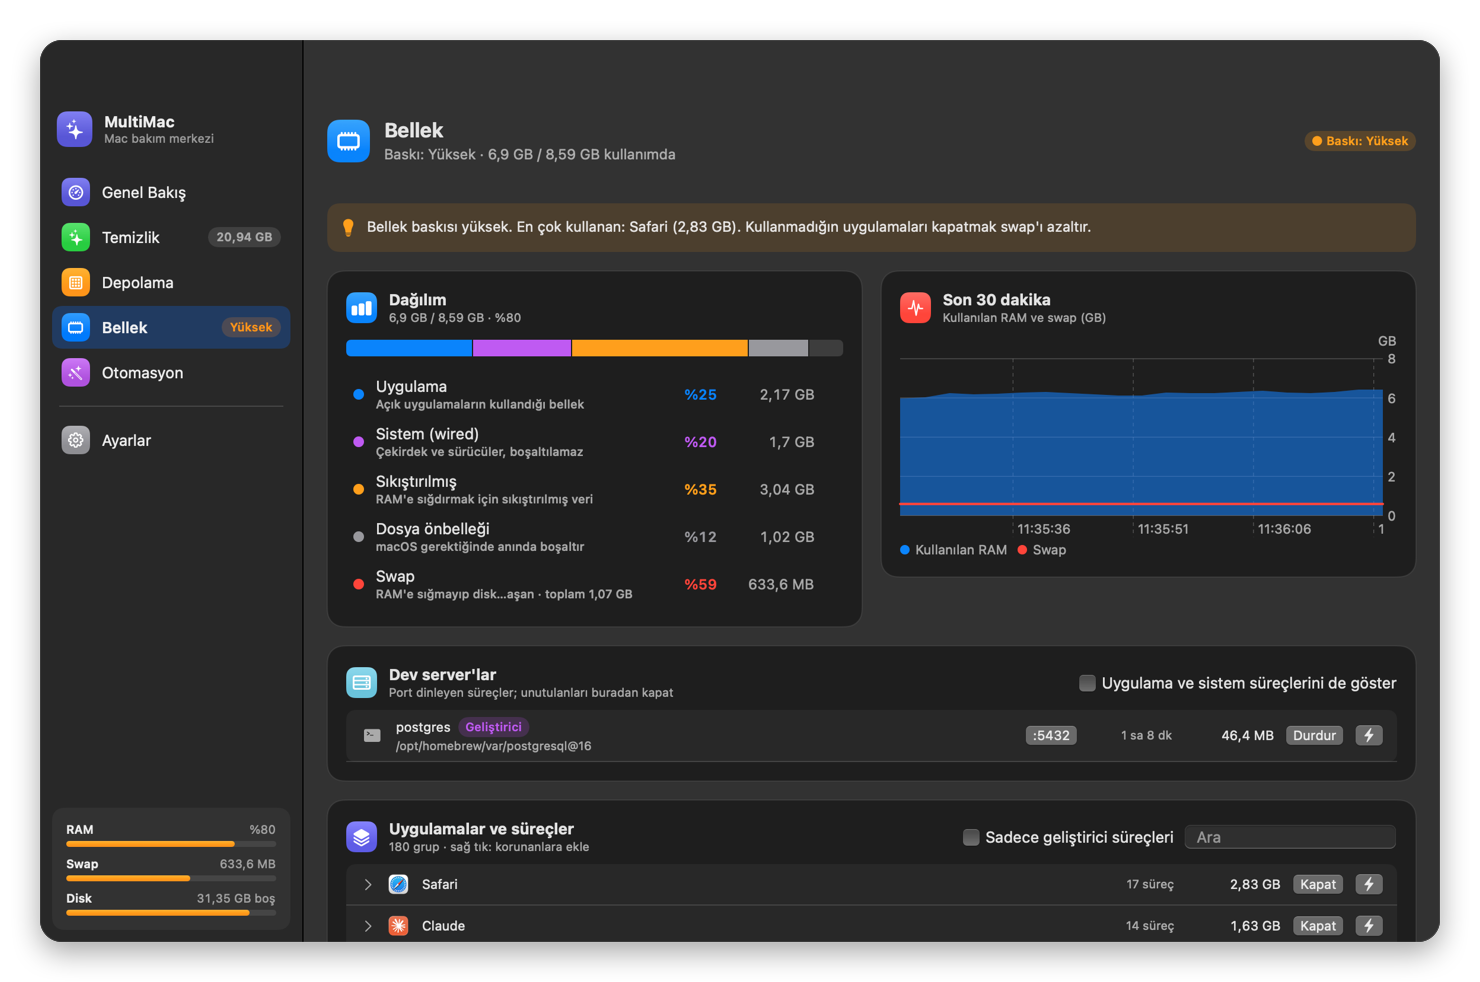
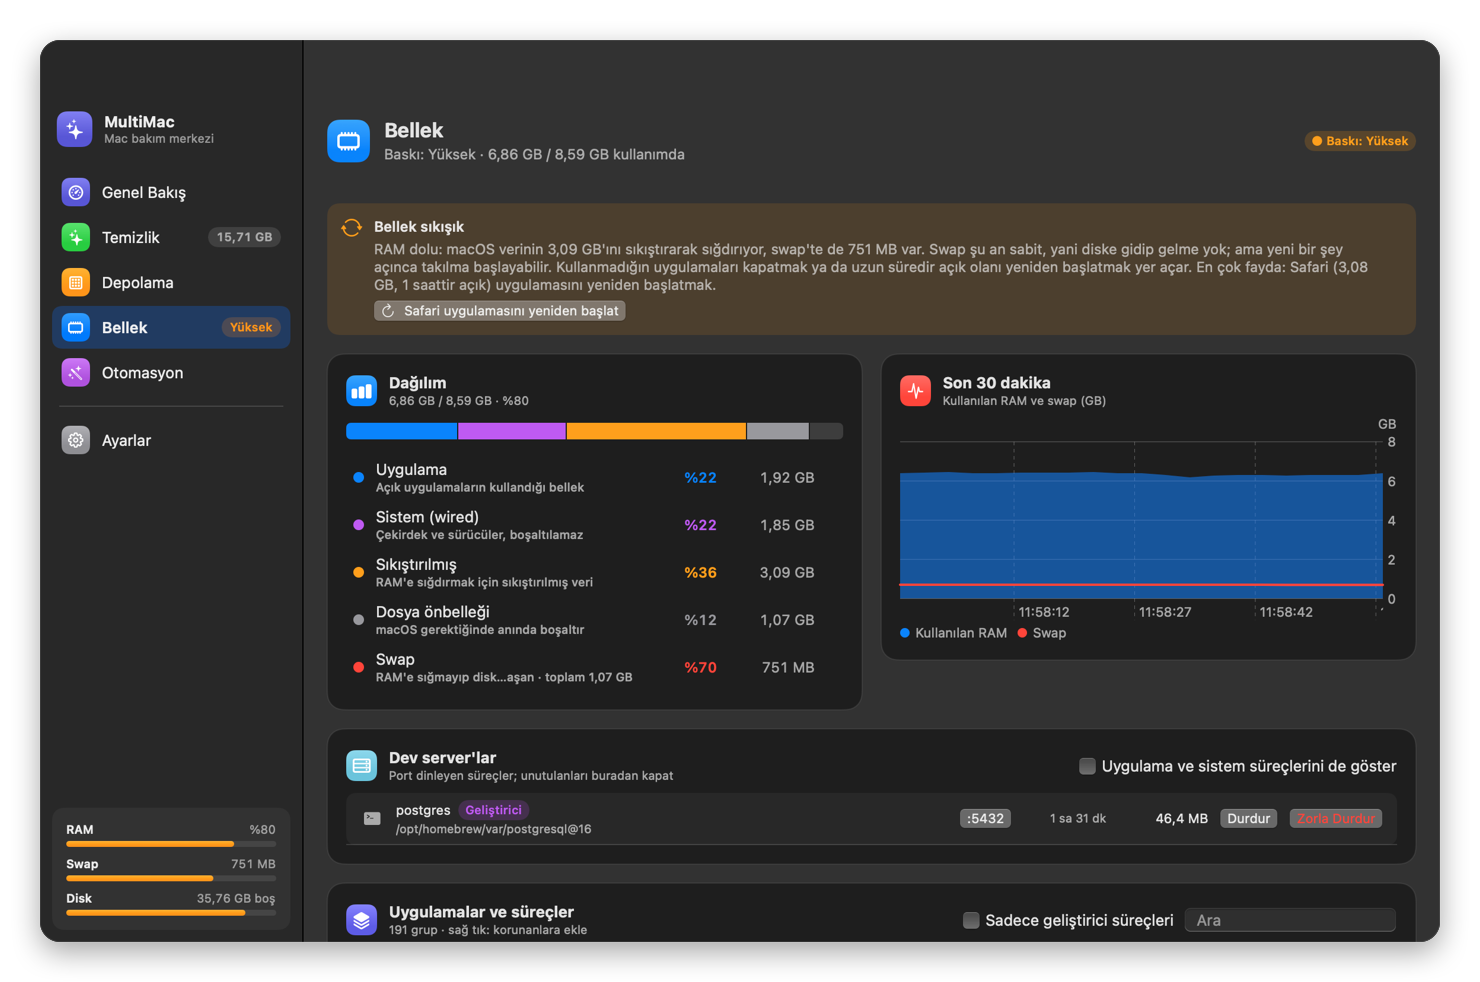
Document restart, swap insight and labeled memory buttons (#1)
Brings the README up to date with the memory features added in e223799.

## Changes
- **Features table:** swap insight and the restart button are listed
under Memory manager.
- **Memory section:**
- a table of the three insight cards (churning / squeezed / calm) and
when each one appears
- a table of every action button (Yeniden Başlat, Kapat, Zorla Kapat,
Sonlandır, Durdur / Zorla Durdur) and what it does
- **Menu bar section:** mentions the compact insight card with one-click
restart.
- **New section "Can swap be moved back into RAM?":** why it can't be
forced, and why restarting the owning app is the practical fix.
- **Usage table:** the new Memory buttons.
- **Screenshots:** Memory and menu bar screenshots refreshed so they
show the insight card and the labeled buttons.

Both `README.md` and `README.tr.md` are updated with the same content.

diff --git a/README.tr.md b/README.tr.md
@@ -68,7 +68,7 @@ MultiMac bunun tersi: alanın ve belleğin tam olarak nereye gittiğini göstere
 | 📊 **Genel Bakış** | Nedenleriyle sağlık özeti, büyük RAM / swap / disk göstergeleri, *disk nereye gidiyor?* (Kütüphane, Uygulamalar, Projeler, geliştirici araçları, İndirilenler…), kategori ve kipe göre temizlenebilir alan, bellek dağılımı, en büyük projeler ve çalışan dev server'lar. **Her yüzde tıklanabilir** ve doğru ekranı, filtrelenmiş olarak açar. |
 | 🧹 **Detaylı temizlik** | Uygulama önbellekleri, geliştirici önbellekleri, proje build kalıntıları, Xcode, günlükler, İndirilenler, büyük ve eski dosyalar, Çöp Kutusu. *Güvenli / Dengeli / Agresif* kipleri, proje görünümü, arama, boyut ve yaş filtreleri, sıralama, alt klasörleri tek tek seçme, kalıcı silme veya Çöp Kutusuna taşıma. |
 | 🗺 **Depolama haritası** | Tüm diskin, ev klasörünün veya herhangi bir klasörün SpaceSniffer tarzı iç içe treemap'i. Renkli güvenlik işaretleri (sistem / dikkat / silinebilir / senin) ve korunan bir şeyi silmeden önce güçlü uyarı. *Sistem Verisi*ni açıklar. |
-| 🧠 **Bellek yöneticisi** | Yardımcı süreçleriyle gruplanmış uygulamalar, 30 dakikalık RAM ve swap grafiği, kapat / zorla kapat, korunan uygulamalar, swap yüzdesi, kritik baskı ve sınırı aşan uygulamalar için uyarılar. |
+| 🧠 **Bellek yöneticisi** | Yardımcı süreçleriyle gruplanmış uygulamalar, 30 dakikalık RAM ve swap grafiği, korunan uygulamalar, swap yüzdesi, kritik baskı ve sınırı aşan uygulamalar için uyarılar. Sade dilli **swap yorumu** swap'in gerçekten sorun olup olmadığını ve belleği geri almak için uzun süredir açık hangi uygulamayı **yeniden başlatman** gerektiğini söyler. Her tuşun üzerinde ne yaptığı yazar: *Yeniden Başlat*, *Kapat*, *Zorla Kapat*. |
 | 🛰 **Dev server bulucu** | TCP portu dinleyen her süreç; proje klasörü, port (`localhost`'u açar), çalışma süresi ve bellekle. Üç gün önce unuttuğun `npm run dev`'i bul. |
 | 🤖 **Otomasyon** | Tek tek açılıp kapatılabilen sekiz önbellek kuralı, zamanlama, disk azalınca tetikleme, *ne silinir?* önizlemesi ve bellek sıkıştığında senin seçtiğin uygulamaları kapatan isteğe bağlı RAM rahatlatma. |
 | 🛡 **Asla dokunma listesi** | Bir öğeye veya projenin tamamına sağ tıklayıp kalıcı olarak hariç tut. Her tarama, kip, otomasyon ve silme motorunun kendisi buna uyar. |
@@ -84,7 +84,8 @@ MultiMac bunun tersi: alanın ve belleğin tam olarak nereye gittiğini göstere
 
 Bellek baskısı yükselince menü çubuğundaki ikon uyarı simgesine dönüşür. Panelde RAM / swap / disk (her kutu ilgili
 ekranı açar), son çalışmanın sonucuyla **Hızlı Temizlik**, sade bir bellek önerisi ve RAM payıyla birlikte en çok
-bellek kullanan uygulamalar var. Satırın üzerine gelince uygulamayı kapatabilir, tıklayınca ayrıntısını açabilirsin.
+bellek kullanan uygulamalar var. Swap çalkantılıysa veya bellek sıkışıksa, en çok yer açacak uygulamayı tek tıkla
+yeniden başlatan küçük bir yorum kartı çıkar. Satırın üzerine gelince uygulamayı kapatabilir, tıklayınca ayrıntısını açabilirsin.
 
 ### Genel Bakış
 
@@ -118,8 +119,26 @@ işlemlerini ve klasörün içeriğini gösterir.
 ### Bellek
 
 <p align="center">
-  <img src="docs/images/memory.png" width="820" alt="Bellek ekranı: dağılım, 30 dakikalık grafik, dev server'lar ve uygulama listesi">
+  <img src="docs/images/memory.png" width="820" alt="Bellek ekranı: yeniden başlat tuşlu swap yorumu, dağılım, 30 dakikalık grafik, dev server'lar ve uygulama listesi">
 </p>
+
+En üstteki kart durumu sade bir dille yorumlar:
+
+| Kart | Ne zaman | Ne önerir |
+| --- | --- | --- |
+| **Swap çalkantılı** | Son 5 dakikada swap'e ~0,75 GB'tan fazla veri girip çıktı | Şimdi bir şey kapat veya yeniden başlat; Mac'i takılatan budur |
+| **Bellek sıkışık** | Bellek baskısı normal değil | 3 saatten uzun süredir açık en büyük uygulamayı yeniden başlat |
+| **Swap durgun** | Swap kullanılıyor ama hareket etmiyor | Hiçbir şey; diskte bekleyen boşta sayfalar Mac'i yavaşlatmaz |
+
+Her tuş ne yaptığını söyler, geri alınamayanlar kırmızıdır:
+
+| Tuş | Nerede | Ne yapar |
+| --- | --- | --- |
+| **Yeniden Başlat** | Uygulamalar | Uygulamayı düzgünce kapatır, çıkmasını bekler, arka planda yeniden açar. Belleği sıfırdan başlar, swap'teki sayfaları atılır |
+| **Kapat** | Uygulamalar | ⌘Q gibi uygulamadan kapanmasını ister; kaydedilmemiş belgeler için yine sorabilir |
+| **Zorla Kapat** | Uygulamalar | Uygulamayı ve yardımcılarını anında öldürür (onay ister; kaydedilmemiş iş kaybolur) |
+| **Sonlandır** | Tek bir yardımcı süreç | Yalnızca o süreci sonlandırır |
+| **Durdur** / **Zorla Durdur** | Dev server'lar | Sunucuyu `SIGTERM` ile durdurur / `SIGKILL` ile öldürür |
 
 ### Otomasyon
 
@@ -160,11 +179,22 @@ Gerçekten bellek açmanın tek güvenli yolu kullanmadığın uygulamaları kap
 istersen otomatikleştirir:
 
 - **Gör:** baskı, swap, 30 dakikalık grafik ve tüm yardımcı süreçleriyle gruplanmış uygulamalar.
-- **Müdahale et:** menü çubuğundan veya Bellek sekmesinden kapat / zorla kapat; unutulan dev server'ları durdur.
+- **Müdahale et:** menü çubuğundan veya Bellek sekmesinden yeniden başlat, kapat / zorla kapat; unutulan dev server'ları durdur.
 - **RAM rahatlatma (varsayılan kapalı):** bellek baskısı (veya swap) *N* dakika yüksek kalırsa, *senin* listene
   eklediğin ve en az *M* dakikadır arka planda olan uygulamaları düzgünce kapatır. Uygulamalar kaydedilmemiş belgeler
   için yine sorabilir; öndeki uygulama ve korunan uygulamalar asla kapatılmaz; her işlem kaydedilir ve bildirim
   gönderebilir.
+
+### Swap tekrar RAM'e alınabilir mi?
+
+Bir uygulamadan alınamaz, güvenli bir yolu da yok. macOS swap'e atılmış belleği ancak sahibi olan süreç ona tekrar
+dokunduğunda RAM'e geri getirir; bunu zorlayan herkese açık bir API yok. Pager'ı kapatmak ya da sayfalamayı tetiklemek için
+bellek doldurmak gibi hileler root ister ve durumu kötüleştirir. Hareketsiz duran swap disk alanı dışında hiçbir şeye
+mal olmaz.
+
+İşe yarayan: **swap'in sahibi olan uygulamayı yeniden başlatmak.** Swap'teki sayfaları atılır ve uygulama daha küçük,
+taze bir bellekle geri gelir. Swap yorum kartı en iyi adayı (3 saatten uzun süredir açık en büyük uygulama) gösterir,
+**Yeniden Başlat** bunu tek tıkla yapar. macOS'u yeniden başlatmak swap'i tamamen temizler.
 
 ## Güvenlik modeli
 
@@ -228,7 +258,7 @@ xattr -dr com.apple.quarantine /Applications/MultiMac.app
 | Genel Bakış | Herhangi bir yüzdeye tıkla; o öğe depolama haritasında veya temizlik listesinde açılır |
 | Temizlik | Bir kip seç veya öğeleri işaretle, sonra **Temizle**. Sağ tık › *Asla dokunma* |
 | Depolama | *Tüm Disk / Ev Klasörü / Klasör…* seç, tara, bloklara çift tıklayarak içine gir |
-| Bellek | Uygulamaya sağ tık › korunanlara ekle. *Durdur* bir dev server'ı kapatır |
+| Bellek | *Yeniden Başlat* uygulamayı yeniden başlatır, *Kapat* kapatır, *Zorla Kapat* zorla kapatır. Uygulamaya sağ tık › korunanlara ekle. *Durdur* bir dev server'ı kapatır |
 | Otomasyon | Kuralları aç/kapat, zamanlamayı ayarla, **Şimdi ne silinir?** önizler, **Şimdi çalıştır** uygular |
 | Ayarlar | Proje klasörleri, kullanılmayan proje eşiği, büyük/eski dosya eşikleri, uyarılar, korunan uygulamalar, menü çubuğu görünümü, girişte başlatma |
 

diff --git a/README.md b/README.md
@@ -70,7 +70,7 @@ system files**, and stays out of the way in the menu bar.
 | 📊 **Overview** | Health summary with reasons, big RAM / swap / disk gauges, *where is the disk going?* (Library, Applications, Projects, dev tools, Downloads…), cleanable space per category and preset, memory breakdown, biggest projects and running dev servers. **Every percentage is clickable** and opens the right screen, filtered. |
 | 🧹 **Detailed cleanup** | App caches, developer caches, project build leftovers, Xcode, logs, downloads, large & old files, Trash. *Safe / Balanced / Aggressive* presets, per-project view, search, size & age filters, sorting, expand an item to pick sub-folders, delete permanently or move to Trash. |
 | 🗺 **Storage map** | SpaceSniffer-style nested treemap of the whole disk, your home or any folder. Color-coded safety (system / caution / safe / yours) and a strong warning before deleting anything protected. Explains *System Data*. |
-| 🧠 **Memory manager** | Apps grouped with their helper processes, 30-minute RAM & swap chart, quit / force quit, protected apps, alerts for swap %, critical pressure and apps above a limit. |
+| 🧠 **Memory manager** | Apps grouped with their helper processes, 30-minute RAM & swap chart, protected apps, alerts for swap %, critical pressure and apps above a limit. A plain-language **swap insight** tells you whether swap is actually hurting and which long-running app to **restart** to get memory back. Every action button is labeled: *Yeniden Başlat* (restart), *Kapat* (quit), *Zorla Kapat* (force quit). |
 | 🛰 **Dev server finder** | Every process listening on a TCP port with project folder, port (opens `localhost`), uptime and memory — find the `npm run dev` you forgot three days ago. |
 | 🤖 **Automation** | Eight cache rules you can toggle one by one, a schedule, low-disk trigger, *what would be deleted?* preview, and optional RAM relief that closes the apps you chose when memory stays tight. |
 | 🛡 **Never touch list** | Right-click any item or whole project to exclude it forever. Respected by every scan, preset, the automation and the deletion engine itself. |
@@ -86,7 +86,8 @@ system files**, and stays out of the way in the menu bar.
 
 The menu bar icon turns into a warning when memory pressure is high. The panel shows RAM / swap / disk (each tile opens
 the related screen), **Quick Clean** with the result of the last run, a plain-language memory tip and the apps using the
-most memory with their share of RAM. Hover a row to quit the app; click it to open its details.
+most memory with their share of RAM. When swap is churning or memory is squeezed, a compact insight card appears with a
+one-click restart of the app that would free the most. Hover a row to quit the app; click it to open its details.
 
 ### Overview
 
@@ -122,8 +123,26 @@ color, Finder / delete actions and the folder's contents.
 ### Memory
 
 <p align="center">
-  <img src="docs/images/memory.png" width="820" alt="Memory screen: breakdown, 30 minute chart, dev servers and app list">
+  <img src="docs/images/memory.png" width="820" alt="Memory screen: swap insight card with a restart button, breakdown, 30 minute chart, dev servers and app list">
 </p>
+
+The card at the top reads the situation in plain language:
+
+| Card | When | What it suggests |
+| --- | --- | --- |
+| **Swap çalkantılı** (swap churning) | More than ~0.75 GB moved in or out of swap in the last 5 minutes | Close or restart something now, this is what makes the Mac stutter |
+| **Bellek sıkışık** (memory squeezed) | Memory pressure is not normal | Restart the biggest app that has been open for 3+ hours |
+| **Swap durgun** (swap calm) | Swap is in use but not moving | Nothing; idle pages on disk do not slow you down |
+
+Every button says what it does, and the destructive ones are red:
+
+| Button | Where | What it does |
+| --- | --- | --- |
+| **Yeniden Başlat** | Apps | Quits the app gracefully, waits for it to exit, opens it again in the background. Its memory starts fresh and its swapped-out pages are dropped |
+| **Kapat** | Apps | Asks the app to quit, like ⌘Q. It can still ask to save documents |
+| **Zorla Kapat** | Apps | Kills the app and its helpers immediately (asks for confirmation; unsaved work is lost) |
+| **Sonlandır** | Single helper process | Terminates just that process |
+| **Durdur** / **Zorla Durdur** | Dev servers | Stops a server with `SIGTERM` / kills it with `SIGKILL` |
 
 ### Automation
 
@@ -163,10 +182,20 @@ The only safe way to actually free memory is to close apps you are not using. Mu
 automatic:
 
 - **See it:** pressure, swap, a 30-minute chart, and apps grouped with all their helper processes.
-- **Act on it:** quit or force quit from the menu bar or the Memory tab; stop forgotten dev servers.
+- **Act on it:** restart, quit or force quit from the menu bar or the Memory tab; stop forgotten dev servers.
 - **RAM relief (off by default):** when memory pressure (or swap) stays high for *N* minutes, gracefully quit the apps
   *you* listed that have been in the background for at least *M* minutes. Apps can still ask to save documents; the
   frontmost app and protected apps are never closed; every action is logged and can send a notification.
+
+### Can swap be moved back into RAM?
+
+Not from an app, and not safely. macOS pages swapped-out memory back in only when the owning process touches it again;
+there is no public API to force it, and tricks like disabling the pager or allocating memory to provoke paging need
+root and make things worse. Swap that sits still costs nothing but disk space.
+
+What works: **restart the app that owns it.** Its swapped-out pages are thrown away and it comes back with a fresh,
+smaller footprint. The swap insight card points to the best candidate (the biggest app open for 3+ hours), and
+**Yeniden Başlat** does it in one click. A full macOS restart clears swap completely.
 
 ## Safety model
 
@@ -229,7 +258,7 @@ xattr -dr com.apple.quarantine /Applications/MultiMac.app
 | Overview | Click any percentage to open that item in the storage map or cleanup list |
 | Cleanup | Pick a preset or tick items, then **Temizle** (clean). Right-click › *Asla dokunma* (never touch) |
 | Storage | Choose *Tüm Disk / Ev Klasörü / Klasör…*, scan, double-click blocks to dive in |
-| Memory | Right-click an app › add to protected apps. *Durdur* stops a dev server |
+| Memory | *Yeniden Başlat* restarts an app, *Kapat* quits, *Zorla Kapat* force quits. Right-click an app › add to protected apps. *Durdur* stops a dev server |
 | Automation | Toggle rules, set the schedule, **Şimdi ne silinir?** previews, **Şimdi çalıştır** runs |
 | Settings | Project folders, stale-project threshold, large/old file thresholds, alerts, protected apps, menu bar style, launch at login |
 
